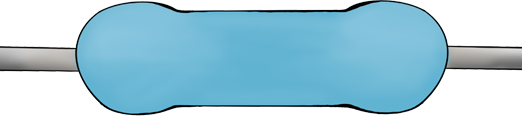
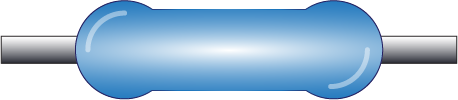
feat: update global typography and replace band hex colors with texture assets in ResistorPreview

diff --git a/components/ResistorPreview.tsx b/components/ResistorPreview.tsx
@@ -3,38 +3,15 @@ import React from "react";
 import { COLOR_MAP } from "@/lib/resistor";
 
 function getBandStyle(color: string): React.CSSProperties {
-  const base: React.CSSProperties = {
+  return {
     width: "4.2%",
     height: "82%",
     borderRadius: 6,
-    mixBlendMode: "multiply",
+    backgroundImage: `url('/tab_color/${color}.png')`,
+    backgroundSize: "100% 100%",
+    backgroundRepeat: "no-repeat",
+    backgroundPosition: "center",
   };
-
-  if (color === "gold") {
-    return {
-      ...base,
-      backgroundImage:
-        "linear-gradient(90deg, #B38E2E, #E4C24A 35%, #B38E2E 65%, #E4C24A)",
-    };
-  }
-  if (color === "silver") {
-    return {
-      ...base,
-      backgroundImage:
-        "linear-gradient(90deg, #9EA3A8, #CFD3D6 35%, #9EA3A8 65%, #E3E6E8)",
-    };
-  }
-
-  const hex = COLOR_MAP[color]?.hex || "#000000";
-
-  const style: React.CSSProperties = {
-    ...base,
-    backgroundColor: hex,
-  };
-  if (color === "white" || color === "yellow") {
-    style.boxShadow = "inset 0 0 0 1px rgba(0,0,0,0.15)";
-  }
-  return style;
 }
 
 export default function ResistorPreview({ colors }: { colors: string[] }) {

diff --git a/app/globals.css b/app/globals.css
@@ -7,8 +7,8 @@
 @theme inline {
   --color-background: var(--background);
   --color-foreground: var(--foreground);
-  --font-sans: Geist, sans-serif;
-  --font-mono: Geist Mono, monospace;
+  --font-sans: var(--font-kanit), var(--font-inter), sans-serif;
+  --font-mono: var(--font-geist-mono), Geist Mono, monospace;
   --font-heading: var(--font-kanit), var(--font-inter), sans-serif;
   --color-sidebar-ring: var(--sidebar-ring);
   --color-sidebar-border: var(--sidebar-border);